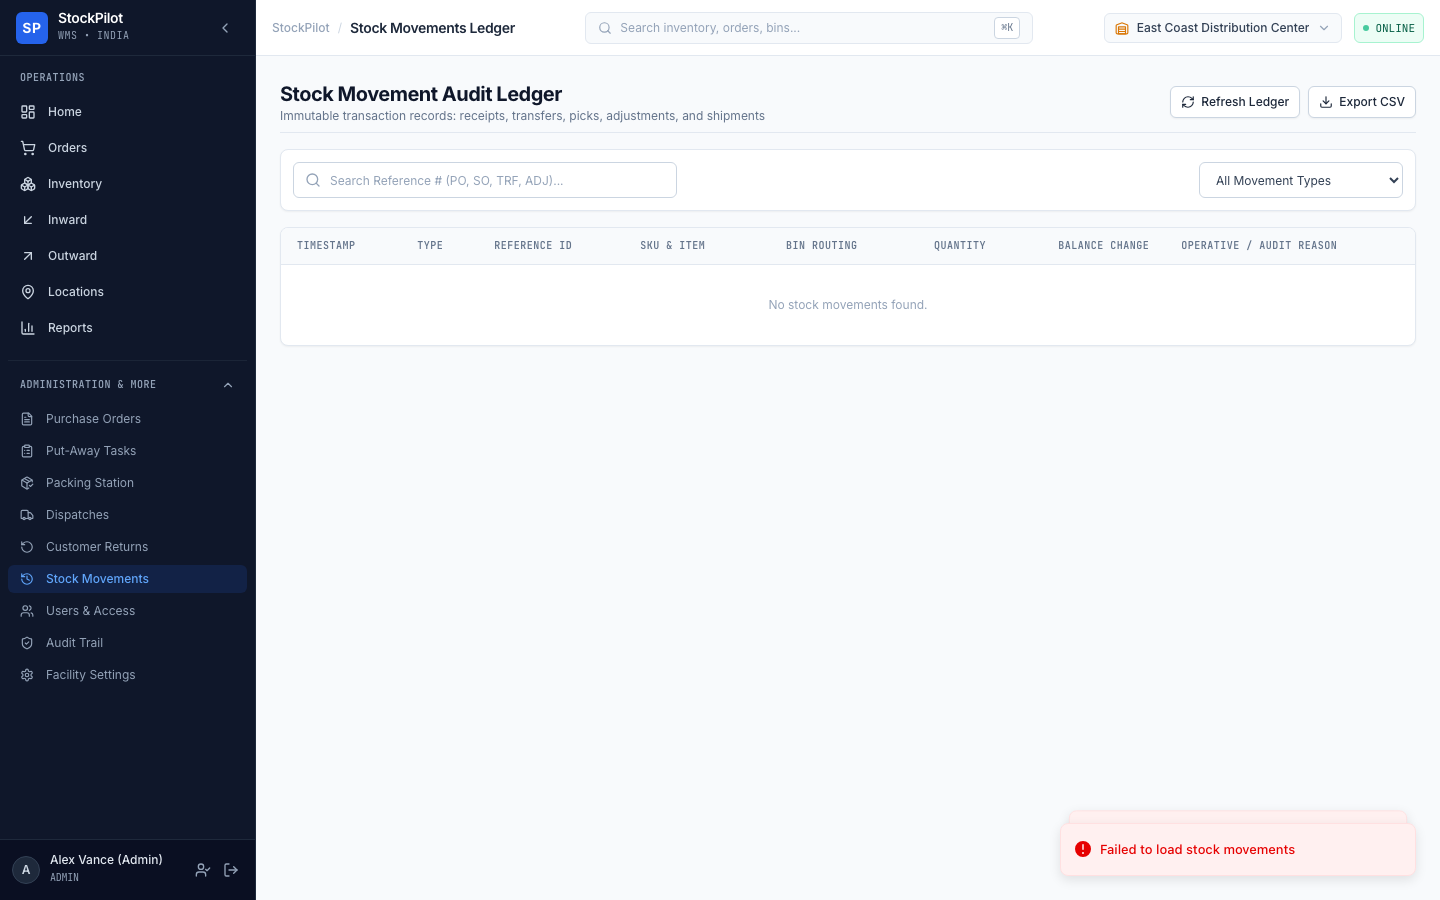
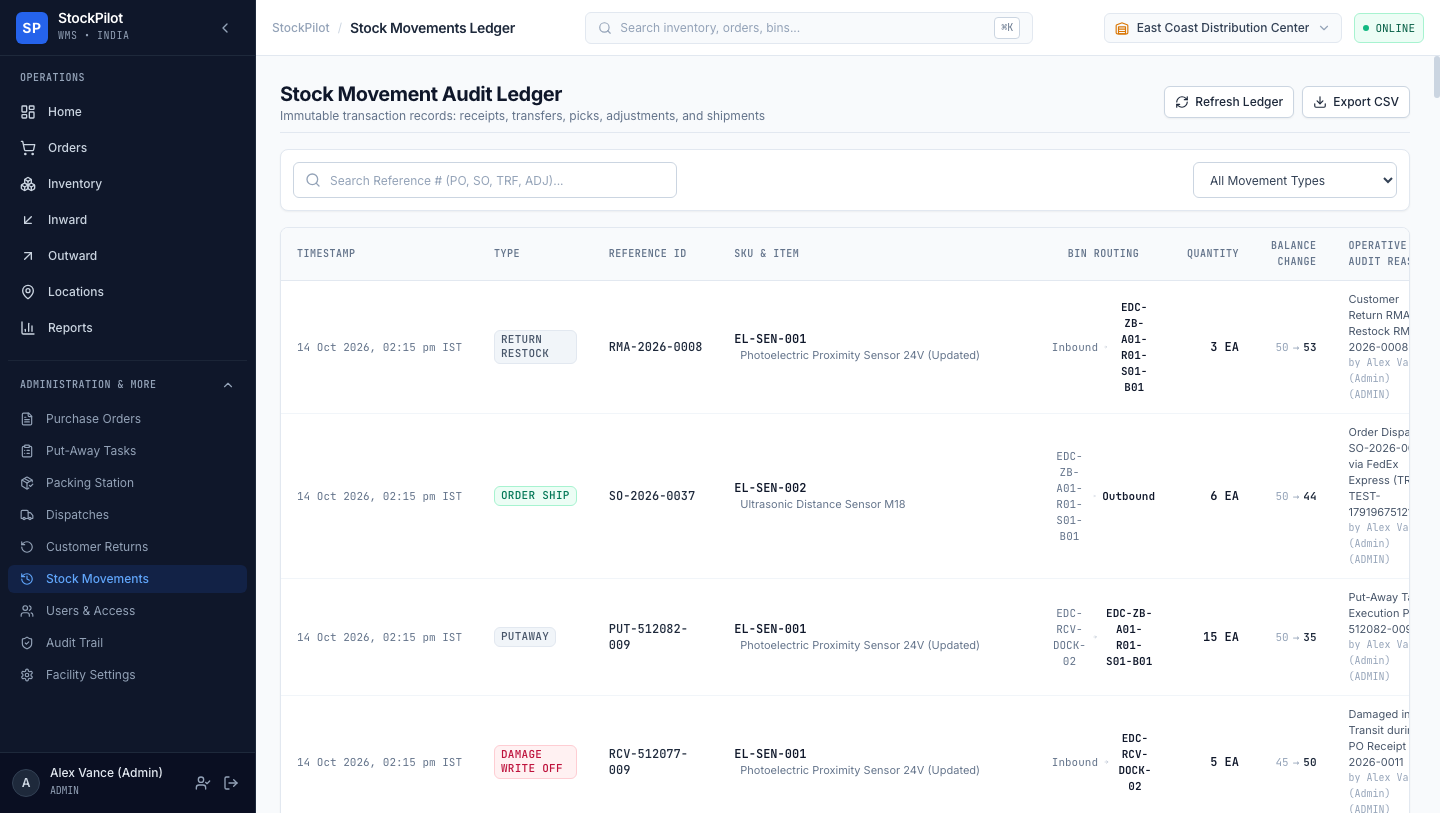
feat(ux): auto-sync updates in InventoryService.ts, movements-1440.png\n\nAutomated commit tracking live harness refinements:\n- ackend/src/services/InventoryService.ts\n- screenshots/after/movements-1440.png

diff --git a/backend/src/services/InventoryService.ts b/backend/src/services/InventoryService.ts
@@ -426,7 +426,9 @@ export class InventoryService {
 
     const where: Prisma.StockMovementWhereInput = {};
     if (query.productId) where.productId = query.productId;
-    if (query.referenceType) where.referenceType = query.referenceType;
+    if (query.referenceType && Object.values(MovementType).includes(query.referenceType as any)) {
+      where.referenceType = query.referenceType;
+    }
     if (query.referenceId) where.referenceId = { contains: query.referenceId, mode: 'insensitive' };
     if (query.startDate || query.endDate) {
       where.createdAt = {};
